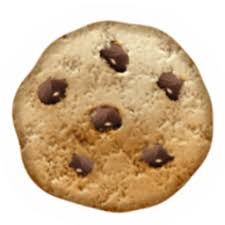
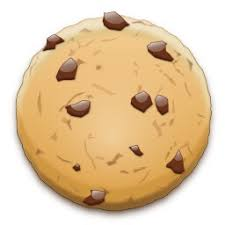
Add MORE COOKIES

diff --git a/cookie-clicker.html b/cookie-clicker.html
@@ -11,7 +11,8 @@
   <body>
     <p id='cookiesPerSecond'></p>
     <p id='prestiges'></p>
-    <a href="#" onclick="add()"><img src='img/cookie.jpeg' /></a>
+    <p id='maximumItems'></p>
+    <a href="#" onclick="add()" id='cookie'><img src='img/startingcookie.jpeg' /></a>
     <br />
     You have:
     <input type="text" id="text" disabled style='text-align: center;' />
@@ -36,7 +37,7 @@
     <p id="MultiplierAmount">Your Multiplier is currently x1</p>
     <button type='button' class='btn btn-danger' data-toggle="modal" data-target='#warningModal'>Reset</button>
     <button type="button" class="btn btn-primary" data-toggle="modal" data-target="#prestigeModal">Prestige</button>
-    <div class="modal" tabindex="-1" role="dialog" id='prestigeModal'>
+    <div class="modal fade" tabindex="-1" role="dialog" id='prestigeModal'>
       <div class="modal-dialog" role="document">
         <div class="modal-content">
           <div class="modal-header">
@@ -69,7 +70,7 @@
           <div class="modal-body">
             <p>This will not upgrade your multiplier.</p>
             <br>
-            <button class='btn btn-danger'><a href='#' onclick="reset();">Reset</a></button>
+            <button class='btn btn-danger'><a href='#' onclick="reset();" data-dismiss="modal">Reset</a></button>
           </div>
           <div class="modal-footer">
             <button type="button" data-dismiss="modal">Cancel</button>

diff --git a/main.js b/main.js
@@ -19,6 +19,11 @@ function update() {
   } else {
     $('#prestige-button').show();
   }
+  if (prestige >= 1) {
+    $('#cookie img').attr('src', 'img/cookie.jpeg');
+  } else if (prestige >= 10) {
+    $('#cookie img').attr('src', 'img/finalcookie.jpeg')
+  }
 }
 var multiplier = 1;
 var cookieCount = 0;
@@ -26,6 +31,7 @@ var autoClick = 0;
 var factories = 0;
 var prestige = 0;
 var prestCost = 1000000;
+var maxItems = 150;
 function timer() {
   cookieCount += autoClick * multiplier;
   cookieCount += factories * 5 * multiplier;
